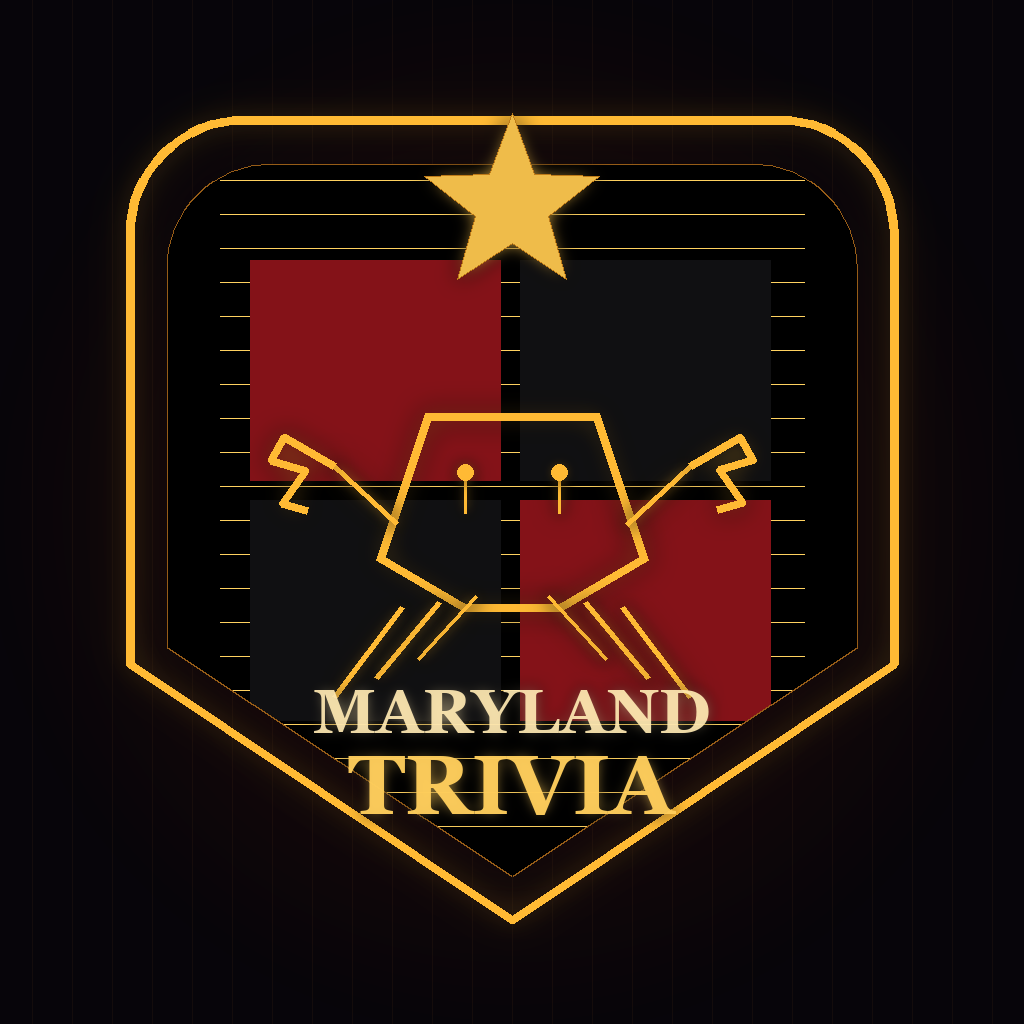
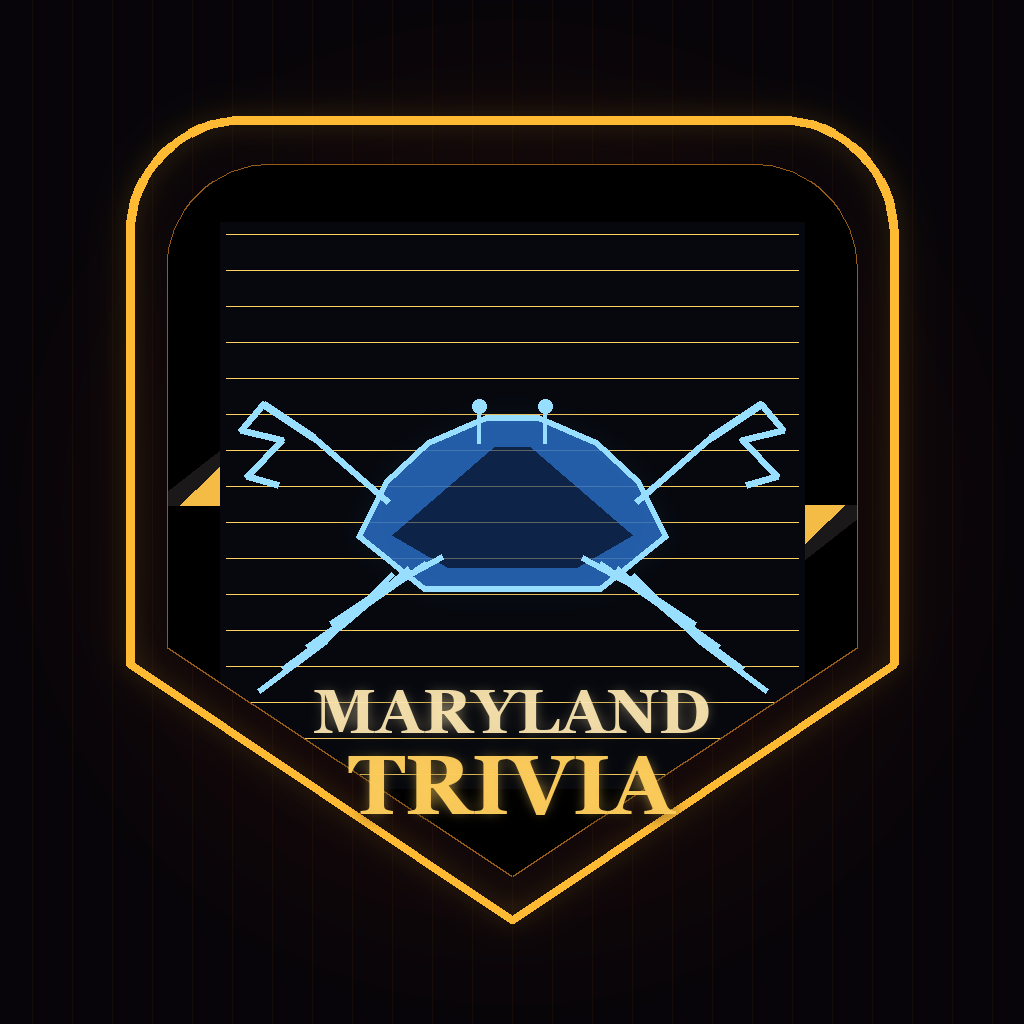
update

Changed region(s): [[0.1562, 0.0938, 0.8438, 0.7188], [0.25, 0.6562, 0.2812, 0.6875]]

diff --git a/Documents/App-Icon-Mockups/generate_mockups.py b/Documents/App-Icon-Mockups/generate_mockups.py
@@ -131,6 +131,139 @@ def draw_crab_icon(draw, cx, cy, scale, color=(255, 186, 52)):
         base.alpha_composite(c)
 
 
+def draw_cross_bottony(draw, cx, cy, size, color):
+    arm = size
+    bar = max(4, size // 5)
+    draw.rectangle((cx - bar // 2, cy - arm, cx + bar // 2, cy + arm), fill=color)
+    draw.rectangle((cx - arm, cy - bar // 2, cx + arm, cy + bar // 2), fill=color)
+    r = max(5, size // 5)
+    draw.ellipse((cx - r, cy - arm - r, cx + r, cy - arm + r), fill=color)
+    draw.ellipse((cx - r, cy + arm - r, cx + r, cy + arm + r), fill=color)
+    draw.ellipse((cx - arm - r, cy - r, cx - arm + r, cy + r), fill=color)
+    draw.ellipse((cx + arm - r, cy - r, cx + arm + r, cy + r), fill=color)
+
+
+def draw_calvert_quarter(draw, x1, y1, x2, y2):
+    md_black = (26, 24, 24, 215)
+    md_gold = (244, 188, 68, 215)
+    cell = max(26, (x2 - x1) // 8)
+
+    for y in range(y1, y2, cell):
+        for x in range(x1, x2, cell):
+            col = md_gold if (((x - x1) // cell + (y - y1) // cell) % 2 == 0) else md_black
+            draw.rectangle((x, y, min(x + cell, x2), min(y + cell, y2)), fill=col)
+
+    w = x2 - x1
+    band_outer = int(w * 0.24)
+    band_inner = int(w * 0.14)
+    draw.polygon(
+        [
+            (x1 - band_outer, y2),
+            (x1, y2),
+            (x2 + band_outer, y1),
+            (x2, y1),
+        ],
+        fill=md_black,
+    )
+    draw.polygon(
+        [
+            (x1 - band_inner, y2),
+            (x1 + band_inner, y2),
+            (x2 + band_inner, y1),
+            (x2 - band_inner, y1),
+        ],
+        fill=md_gold,
+    )
+
+
+def draw_crossland_quarter(draw, x1, y1, x2, y2):
+    md_red = (168, 29, 40, 215)
+    md_white = (243, 236, 226, 205)
+    draw.rectangle((x1, y1, x2, y2), fill=md_red)
+    spacing = max(64, (x2 - x1) // 4)
+    size = max(15, spacing // 4)
+    for cy in range(y1 + spacing // 2, y2, spacing):
+        for cx in range(x1 + spacing // 2, x2, spacing):
+            draw_cross_bottony(draw, cx, cy, size, md_white)
+
+
+def draw_blue_crab_icon(cx, cy, scale=1.0):
+    shell_fill = (41, 106, 191, 220)
+    shell_shadow = (16, 49, 101, 170)
+    line = (152, 223, 255, 255)
+    glow = (88, 176, 255, 140)
+
+    art = Image.new('RGBA', (SIZE, SIZE), (0, 0, 0, 0))
+    ad = ImageDraw.Draw(art)
+
+    # Carapace with side spines to read as a Maryland blue crab.
+    shell = [
+        (cx - int(168 * scale), cy + int(10 * scale)),
+        (cx - int(138 * scale), cy - int(52 * scale)),
+        (cx - int(92 * scale), cy - int(95 * scale)),
+        (cx - int(30 * scale), cy - int(122 * scale)),
+        (cx + int(30 * scale), cy - int(122 * scale)),
+        (cx + int(92 * scale), cy - int(95 * scale)),
+        (cx + int(138 * scale), cy - int(52 * scale)),
+        (cx + int(168 * scale), cy + int(10 * scale)),
+        (cx + int(96 * scale), cy + int(68 * scale)),
+        (cx - int(96 * scale), cy + int(68 * scale)),
+    ]
+    ad.polygon(shell, fill=shell_fill, outline=line, width=max(4, int(7 * scale)))
+    ad.polygon(
+        [
+            (cx - int(130 * scale), cy + int(8 * scale)),
+            (cx - int(20 * scale), cy - int(88 * scale)),
+            (cx + int(20 * scale), cy - int(88 * scale)),
+            (cx + int(130 * scale), cy + int(8 * scale)),
+            (cx + int(70 * scale), cy + int(42 * scale)),
+            (cx - int(70 * scale), cy + int(42 * scale)),
+        ],
+        fill=shell_shadow,
+    )
+
+    # Eyes
+    for s in (-1, 1):
+        x_eye = cx + s * int(36 * scale)
+        ad.line(
+            [(x_eye, cy - int(92 * scale)), (x_eye, cy - int(126 * scale))],
+            fill=line,
+            width=max(3, int(5 * scale)),
+        )
+        r = max(5, int(8 * scale))
+        ad.ellipse((x_eye - r, cy - int(132 * scale) - r, x_eye + r, cy - int(132 * scale) + r), fill=line)
+
+    # Legs
+    for s in (-1, 1):
+        for i in range(4):
+            shoulder = (cx + s * int((76 + i * 18) * scale), cy + int((32 + i * 6) * scale))
+            mid = (cx + s * int((142 + i * 20) * scale), cy + int((68 + i * 18) * scale))
+            tip = (cx + s * int((196 + i * 26) * scale), cy + int((104 + i * 24) * scale))
+            ad.line([shoulder, mid, tip], fill=line, width=max(4, int(7 * scale)))
+
+    # Claws
+    for s in (-1, 1):
+        shoulder = (cx + s * int(134 * scale), cy - int(28 * scale))
+        elbow = (cx + s * int(214 * scale), cy - int(98 * scale))
+        ad.line([shoulder, elbow], fill=line, width=max(4, int(8 * scale)))
+        px, py = elbow
+        claw = [
+            (px, py),
+            (px + s * int(54 * scale), py - int(36 * scale)),
+            (px + s * int(78 * scale), py - int(8 * scale)),
+            (px + s * int(34 * scale), py + int(4 * scale)),
+            (px + s * int(72 * scale), py + int(42 * scale)),
+            (px + s * int(38 * scale), py + int(52 * scale)),
+        ]
+        ad.line(claw, fill=line, width=max(4, int(8 * scale)), joint='curve')
+
+    glow_layer = Image.new('RGBA', (SIZE, SIZE), (0, 0, 0, 0))
+    gd = ImageDraw.Draw(glow_layer)
+    gd.polygon(shell, outline=glow, width=max(7, int(11 * scale)))
+    base.alpha_composite(glow_layer.filter(ImageFilter.GaussianBlur(max(12, int(18 * scale)))))
+    base.alpha_composite(art)
+
+
 # --------- Icon 1: Maryland Crest Shield ---------
 base = Image.new('RGBA', (SIZE, SIZE), (0, 0, 0, 255))
 base.alpha_composite(radial_bg((39, 12, 8), (7, 5, 10), noise=True).convert('RGBA'))
@@ -148,34 +281,37 @@ for w, blur, a in [(18, 26, 120), (12, 14, 150)]:
 d.line(outer + [outer[0]], fill=(255, 186, 52, 255), width=9, joint='curve')
 d.line(inner + [inner[0]], fill=(150, 92, 23, 170), width=3, joint='curve')
 
-# subtle quartered Maryland-inspired fill
+# Maryland-flag-inspired fill
 fill_layer = Image.new('RGBA', (SIZE, SIZE), (0, 0, 0, 0))
 fd = ImageDraw.Draw(fill_layer)
-fd.polygon(inner, fill=(18, 10, 16, 120))
+fd.polygon(inner, fill=(12, 10, 14, 110))
 clip = Image.new('L', (SIZE, SIZE), 0)
 ImageDraw.Draw(clip).polygon(inner, fill=255)
 pattern = Image.new('RGBA', (SIZE, SIZE), (0, 0, 0, 0))
 pd = ImageDraw.Draw(pattern)
-for y in range(180, 860, 34):
-    pd.line([(220, y), (804, y)], fill=(255, 210, 96, 20), width=1)
-# red-white crosses (simplified)
-pd.rectangle((250, 260, 500, 480), fill=(132, 18, 24, 95))
-pd.rectangle((520, 260, 770, 480), fill=(16, 16, 18, 95))
-pd.rectangle((250, 500, 500, 720), fill=(16, 16, 18, 95))
-pd.rectangle((520, 500, 770, 720), fill=(132, 18, 24, 95))
+
+ix1, iy1 = 220, 222
+ix2, iy2 = 804, 788
+mx = (ix1 + ix2) // 2
+my = (iy1 + iy2) // 2
+
+draw_calvert_quarter(pd, ix1, iy1, mx, my)
+draw_crossland_quarter(pd, mx, iy1, ix2, my)
+draw_crossland_quarter(pd, ix1, my, mx, iy2)
+draw_calvert_quarter(pd, mx, my, ix2, iy2)
+
+# Dim overlay so foreground stays legible at small sizes.
+pd.rectangle((ix1, iy1, ix2, iy2), fill=(6, 8, 14, 70))
+
+# Fine warm pinstripes to keep continuity with the Texas icon family.
+for y in range(iy1 + 12, iy2, 36):
+    pd.line([(ix1 + 6, y), (ix2 - 6, y)], fill=(255, 210, 96, 24), width=1)
+
 pattern.putalpha(clip)
 base.alpha_composite(fill_layer)
 base.alpha_composite(pattern)
 
-draw_crab_icon(d, CENTER, 560, 1.05)
-
-# top star and text
-s = star(CENTER, 205, 92, 38)
-star_layer = Image.new('RGBA', (SIZE, SIZE), (0, 0, 0, 0))
-sd = ImageDraw.Draw(star_layer)
-sd.polygon(s, fill=(239, 188, 74, 255), outline=(190, 123, 25, 255))
-base.alpha_composite(star_layer.filter(ImageFilter.GaussianBlur(10)))
-base.alpha_composite(star_layer)
+draw_blue_crab_icon(CENTER, 528, 0.93)
 
 try:
     font_big = ImageFont.truetype('/System/Library/Fonts/Supplemental/Georgia Bold.ttf', 84)
